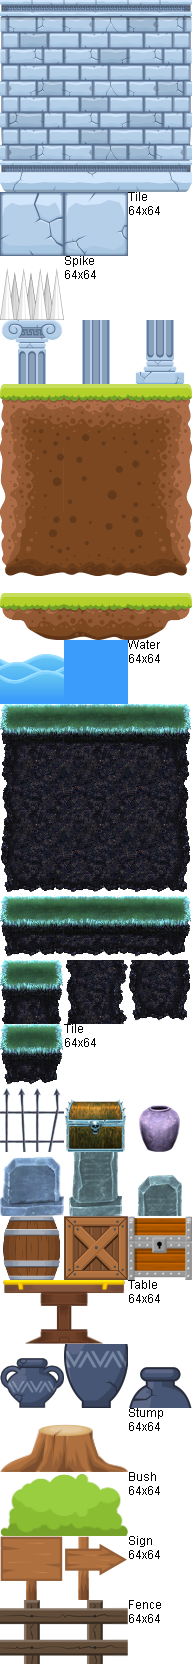
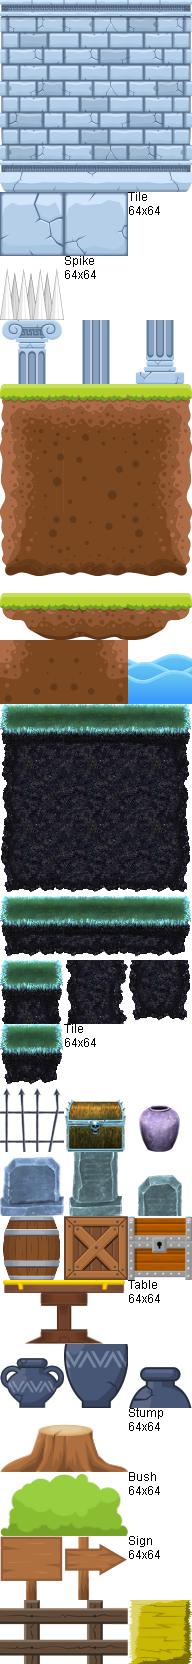
Proper drawing of large tiles Background image Better tiles

Changed region(s): [[0.0, 0.375, 1.0, 0.4375], [0.6562, 0.9375, 1.0, 1.0]]

diff --git a/www/js/src/level-test.js b/www/js/src/level-test.js
@@ -1,1 +1,1 @@
-window._world = {"viewportBottom":156,"tileWidth":64,"tileHeight":64,"width":30,"height":9,"x":0,"y":-32,"viewportTop":0,"viewportRight":0,"viewportLeft":0,"backgroundColor":"rgba(66, 66, 255, 1)","sprites":[{"name":"h-1","state":"idle","sequenceIndex":0,"x":192,"y":128},{"name":"f-grass1","state":"idle","sequenceIndex":0,"x":0,"y":512},{"name":"f-grass2","state":"idle","sequenceIndex":0,"x":64,"y":512},{"name":"f-grass2","state":"idle","sequenceIndex":0,"x":128,"y":512},{"name":"f-grass2","state":"idle","sequenceIndex":0,"x":192,"y":512},{"name":"f-grass2","state":"idle","sequenceIndex":0,"x":256,"y":512},{"name":"f-grass2","state":"idle","sequenceIndex":0,"x":320,"y":512},{"name":"f-grass2","state":"idle","sequenceIndex":0,"x":384,"y":512},{"name":"f-grass2","state":"idle","sequenceIndex":0,"x":448,"y":512},{"name":"f-grass2","state":"idle","sequenceIndex":0,"x":512,"y":512},{"name":"f-grass2","state":"idle","sequenceIndex":0,"x":576,"y":512},{"name":"f-grass2","state":"idle","sequenceIndex":0,"x":640,"y":512},{"name":"f-grass2","state":"idle","sequenceIndex":0,"x":704,"y":512},{"name":"f-grass2","state":"idle","sequenceIndex":0,"x":768,"y":512},{"name":"f-grass2","state":"idle","sequenceIndex":0,"x":832,"y":512},{"name":"f-grass2","state":"idle","sequenceIndex":0,"x":896,"y":512},{"name":"f-grass2","state":"idle","sequenceIndex":0,"x":960,"y":512},{"name":"f-grass2","state":"idle","sequenceIndex":0,"x":1024,"y":512},{"name":"f-grass2","state":"idle","sequenceIndex":0,"x":1088,"y":512},{"name":"f-grass2","state":"idle","sequenceIndex":0,"x":1152,"y":512},{"name":"f-grass2","state":"idle","sequenceIndex":0,"x":1216,"y":512},{"name":"f-grass2","state":"idle","sequenceIndex":0,"x":1280,"y":512},{"name":"f-grass2","state":"idle","sequenceIndex":0,"x":1344,"y":512},{"name":"f-grass2","state":"idle","sequenceIndex":0,"x":1408,"y":512},{"name":"f-grass2","state":"idle","sequenceIndex":0,"x":1472,"y":512},{"name":"f-grass2","state":"idle","sequenceIndex":0,"x":1536,"y":512},{"name":"f-grass2","state":"idle","sequenceIndex":0,"x":1600,"y":512},{"name":"f-grass2","state":"idle","sequenceIndex":0,"x":1664,"y":512},{"name":"f-grass2","state":"idle","sequenceIndex":0,"x":1728,"y":512},{"name":"f-grass2","state":"idle","sequenceIndex":0,"x":1792,"y":512},{"name":"f-grass3","state":"idle","sequenceIndex":0,"x":1856,"y":512},{"name":"h-2","state":"idle","sequenceIndex":0,"x":896,"y":128},{"name":"hero1","state":"idle-right","sequenceIndex":0,"x":128,"y":388,"nextState":"idle-right","velocity":0,"acceleration":0,"yVelocity":0,"yAcceleration":0}],"state":"pause"};
+window._world = {"viewportBottom":156,"tileWidth":64,"tileHeight":64,"width":30,"height":9,"x":0,"y":-32,"viewportTop":0,"viewportRight":0,"viewportLeft":0,"backgroundColor":"rgba(2, 10, 23, 1)","sprites":[{"name":"h-1","state":"idle","sequenceIndex":0,"x":192,"y":128},{"name":"f-grass1","state":"idle","sequenceIndex":0,"x":0,"y":512},{"name":"f-grass2","state":"idle","sequenceIndex":0,"x":64,"y":512},{"name":"f-grass2","state":"idle","sequenceIndex":0,"x":128,"y":512},{"name":"f-grass2","state":"idle","sequenceIndex":0,"x":192,"y":512},{"name":"f-grass2","state":"idle","sequenceIndex":0,"x":256,"y":512},{"name":"f-grass2","state":"idle","sequenceIndex":0,"x":320,"y":512},{"name":"f-grass2","state":"idle","sequenceIndex":0,"x":384,"y":512},{"name":"f-grass2","state":"idle","sequenceIndex":0,"x":448,"y":512},{"name":"f-grass2","state":"idle","sequenceIndex":0,"x":512,"y":512},{"name":"f-grass2","state":"idle","sequenceIndex":0,"x":576,"y":512},{"name":"f-grass2","state":"idle","sequenceIndex":0,"x":640,"y":512},{"name":"f-grass2","state":"idle","sequenceIndex":0,"x":704,"y":512},{"name":"f-grass2","state":"idle","sequenceIndex":0,"x":768,"y":512},{"name":"f-grass2","state":"idle","sequenceIndex":0,"x":832,"y":512},{"name":"f-grass2","state":"idle","sequenceIndex":0,"x":896,"y":512},{"name":"f-grass2","state":"idle","sequenceIndex":0,"x":960,"y":512},{"name":"f-grass2","state":"idle","sequenceIndex":0,"x":1024,"y":512},{"name":"f-grass2","state":"idle","sequenceIndex":0,"x":1088,"y":512},{"name":"f-grass2","state":"idle","sequenceIndex":0,"x":1152,"y":512},{"name":"f-grass2","state":"idle","sequenceIndex":0,"x":1216,"y":512},{"name":"f-grass2","state":"idle","sequenceIndex":0,"x":1280,"y":512},{"name":"f-grass2","state":"idle","sequenceIndex":0,"x":1344,"y":512},{"name":"f-grass2","state":"idle","sequenceIndex":0,"x":1408,"y":512},{"name":"f-grass2","state":"idle","sequenceIndex":0,"x":1472,"y":512},{"name":"f-grass2","state":"idle","sequenceIndex":0,"x":1536,"y":512},{"name":"f-grass2","state":"idle","sequenceIndex":0,"x":1600,"y":512},{"name":"f-grass2","state":"idle","sequenceIndex":0,"x":1664,"y":512},{"name":"f-grass2","state":"idle","sequenceIndex":0,"x":1728,"y":512},{"name":"f-grass2","state":"idle","sequenceIndex":0,"x":1792,"y":512},{"name":"f-grass3","state":"idle","sequenceIndex":0,"x":1856,"y":512},{"name":"h-2","state":"idle","sequenceIndex":0,"x":896,"y":128},{"name":"hero1","state":"idle-right","sequenceIndex":0,"x":128,"y":388,"nextState":"idle-right","velocity":0,"acceleration":0,"yVelocity":0,"yAcceleration":0}],"state":"pause"};

diff --git a/www/js/backbone-game-engine/world.js b/www/js/backbone-game-engine/world.js
@@ -46,6 +46,9 @@
       this.setupSpriteLayers();
       this.spawnSprites();
 
+      this.on("change:backgroundImage", this.spawnBackgroundImage);
+      this.spawnBackgroundImage();
+
       this.on("attach", this.onAttach, this);
       this.on("detach", this.onDetach, this);
     },
@@ -94,7 +97,9 @@
           staticSprites = this.staticSprites = new Backbone.Collection(),
           dynamicSprites = this.dynamicSprites = new Backbone.Collection();
       staticSprites.lookup = {};
+      staticSprites.maxSpriteWidth = staticSprites.maxSpriteHeight = 0;
       dynamicSprites.lookup = {};
+      dynamicSprites.maxSpriteWidth = dynamicSprites.maxSpriteHeight = 0;
 
       function add(sprite, collection) {
         collection.add(sprite);
@@ -102,6 +107,8 @@
         collection.lookup[index] || (collection.lookup[index] = []);
         collection.lookup[index].push(sprite);
         sprite.set("lookupIndex", index);
+        collection.maxSpriteWidth = Math.max(collection.maxSpriteWidth, sprite.attributes.width);
+        collection.maxSpriteHeight = Math.max(collection.maxSpriteHeight, sprite.attributes.width);
       }
 
       function update(sprite, collection) {
@@ -115,6 +122,8 @@
         collection.lookup[newIndex] || (collection.lookup[newIndex] = []);
         collection.lookup[newIndex].push(sprite);
         sprite.set("lookupIndex", newIndex);
+        collection.maxSpriteWidth = Math.max(collection.maxSpriteWidth, sprite.attributes.width);
+        collection.maxSpriteHeight = Math.max(collection.maxSpriteHeight, sprite.attributes.width);
       }
 
       function remove(sprite, collection) {
@@ -184,6 +193,20 @@
       return this;
     },
 
+    spawnBackgroundImage: function() {
+      this.backgroundImage = undefined;
+      var id = this.get("backgroundImage");
+      if (!id) return;
+
+      id = id.replace("#", "");
+      var img = document.getElementById(id);
+
+      if (!img)
+        throw "Invalid img #" + id + " for world backgroundImage. Cannot find element by id.";
+
+      this.backgroundImage = img;
+      return this;
+    },
     spawnSprites: function() {
       var world = this,
           w = this.toShallowJSON(),
@@ -366,9 +389,9 @@
     drawStaticSprites: function(context) {
       var start =_.now(),
           sprite, index, count = 0,
-          tileX1 = this.getWorldCol(-this.attributes.x + this.attributes.viewportLeft),
+          tileX1 = this.getWorldCol(-this.attributes.x + this.attributes.viewportLeft - this.staticSprites.maxSpriteWidth),
           tileX2 = this.getWorldCol(-this.attributes.x + context.canvas.width - this.attributes.viewportRight),
-          tileY1 = this.getWorldRow(-this.attributes.y + this.attributes.viewportTop),
+          tileY1 = this.getWorldRow(-this.attributes.y + this.attributes.viewportTop - this.staticSprites.maxSpriteHeight),
           tileY2 = this.getWorldRow(-this.attributes.y + context.canvas.height - this.attributes.viewportBottom);
       this.spriteOptions.offsetX = this.attributes.x;
       this.spriteOptions.offsetY = this.attributes.y;
@@ -381,21 +404,13 @@
 
       if (this.backgroundImage) {
         var img = this.backgroundImage,
-            ix = -this.attributes.x/2,
-            iy = -this.attributes.y/2,
             width = context.canvas.width < img.width ? context.canvas.width : img.width,
-            height = context.canvas.height < img.height ? context.canvas.height : img.height,
-            flipAxis = 0;
-        context.save();
-        context.translate(flipAxis, 0);
-        context.scale(2, 2);
-        context.translate(-flipAxis, 0);
+            height = context.canvas.height < img.height ? context.canvas.height : img.height;
         context.drawImage(
           img,
-          ix, iy, width, height,
-          0, 40, width, height
+          0, 0, width, height,
+          0, 0, width, height
         );
-        context.restore();
       }
 
       for (var col = tileX1; col <= tileX2; col++)

diff --git a/www/js/src/tiles.js b/www/js/src/tiles.js
@@ -108,8 +108,9 @@
   extendSprite("Tile", "f-grass5", {collision: true}, {idle: {sequences: [37]}});
   extendSprite("Tile", "f-grass6", {collision: true}, {idle: {sequences: [38]}});
 
-  extendSprite("Tile", "f-water1", {collision: true}, {idle: {sequences: [40]}});
-  extendSprite("Tile", "f-water2", {collision: true}, {idle: {sequences: [41]}});
+  extendSprite("Tile", "f-ground7", {collision: true}, {idle: {sequences: [40]}});
+  extendSprite("Tile", "f-ground8", {collision: true}, {idle: {sequences: [41]}});
+  extendSprite("Tile", "f-water", {collision: false}, {idle: {sequences: [42]}});
 
   extendSprite("Tile", "f-stump1", {collision: true, paddingTop: 20, paddingLeft: 32}, {idle: {sequences: [88]}});
   extendSprite("Tile", "f-stump2", {collision: true, paddingTop: 20, paddingRight: 32}, {idle: {sequences: [89]}});
@@ -122,6 +123,7 @@
 
   extendSprite("Tile", "f-fence1", {collision: false}, {idle: {sequences: [100]}});
   extendSprite("Tile", "f-fence2", {collision: false}, {idle: {sequences: [101]}});
+  extendSprite("Tile", "f-hay", {collision: true}, {idle: {sequences: [102]}});
 
   extendSprite("Tile", "g-grass1", {collision: true}, {idle: {sequences: [44]}});
   extendSprite("Tile", "g-grass2", {collision: true}, {idle: {sequences: [45]}});

diff --git a/www/js/src/main.js b/www/js/src/main.js
@@ -69,7 +69,7 @@ $(window).on("load", function() {
       }]).attachToSpriteClasses();
 
       // Create the debug panel
-      this.debugPanel = new Backbone.DebugPanel();
+      this.debugPanel = new Backbone.DebugPanel({}, {color: "#fff"});
 
       // User input (turn off touchpad to start)
       this.input = new Backbone.Input({
@@ -88,7 +88,8 @@ $(window).on("load", function() {
           tileWidth: tileWidth,
           tileHeight: tileHeight,
           width: 15,
-          height: 9
+          height: 9,
+          backgroundImage: "#background"
         }, window._world), {
         input: this.input,
         camera: this.camera,

diff --git a/www/index.html b/www/index.html
@@ -50,6 +50,7 @@
         <img id="enemies" src="img/enemies.png" style="display:none;" />
         <img id="tiles" src="img/tiles.png" style="display:none;" />
         <img id="houses" src="img/houses.png" style="display:none;" />
+        <img id="background" src="img/background.png" style="display:none;" />
         <img id="icons" src="img/icons.png" style="display:none;" />
 
         <canvas id="foreground" width="960" height="700">

diff --git a/www/js/backbone-game-engine/core.js b/www/js/backbone-game-engine/core.js
@@ -488,7 +488,7 @@
     },
     draw: function(context) {
       var text = JSON.stringify(this.toJSON());
-      context.fillStyle = this.get("color");
+      context.fillStyle = this.color;
       context.font = "12px arial";
       context.textAlign = "left";
       context.textBaseline = "middle";
